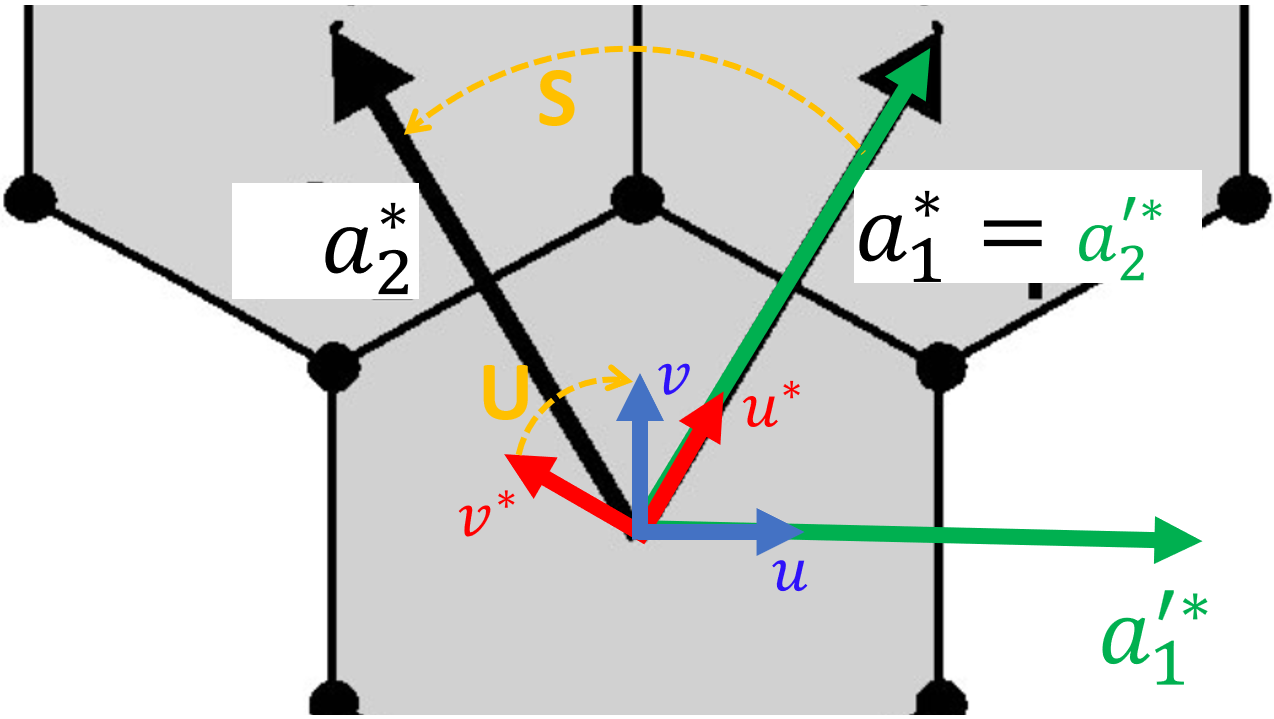
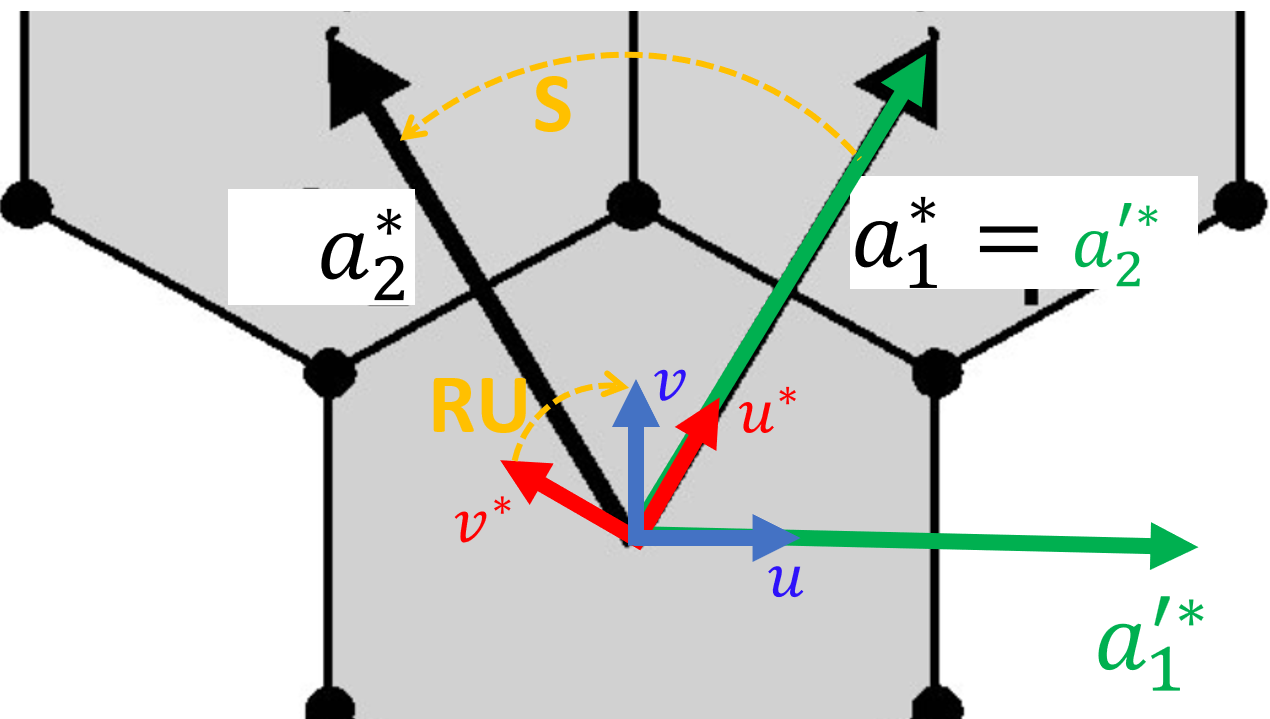
Chenge the preferred orientation

diff --git a/Framework/PythonInterface/test/python/plugins/algorithms/ReorientUnitCellTest.py b/Framework/PythonInterface/test/python/plugins/algorithms/ReorientUnitCellTest.py
@@ -21,6 +21,8 @@ from mantid.simpleapi import (
 
 
 class ReorientUnitCellTest(unittest.TestCase):
+    R = np.array([[0, 1, 0], [0, 0, 1], [1, 0, 0]])
+
     def setUp(self):
         """Set up test fixtures."""
         # Create a simple peaks workspace for testing
@@ -45,6 +47,12 @@ class ReorientUnitCellTest(unittest.TestCase):
         cos_theta = (trace - 1) / 2.0
         return round(np.degrees(np.arccos(cos_theta)))
 
+    def rotation_angle_of_RU(self):
+        oriented_lattice = mtd[self.peaks_ws_name].sample().getOrientedLattice()
+        trace = (self.R @ oriented_lattice.getU()).diagonal().sum()
+        cos_theta = (trace - 1) / 2.0
+        return round(np.degrees(np.arccos(cos_theta)))
+
     def test_missing_ub_matrix(self):
         """Test that algorithm fails if workspace has no UB matrix."""
         # Create a workspace without UB
@@ -60,15 +68,6 @@ class ReorientUnitCellTest(unittest.TestCase):
         finally:
             DeleteWorkspace(test_ws)
 
-    def test_invalid_lattice_system(self):
-        """Test that specifying LatticeSystem for non-Trigonal fails validation."""
-        alg = self.setup_algorithm()
-        alg.setProperty("PeaksWorkspace", self.peaks_ws_name)
-        alg.setProperty("CrystalSystem", "Cubic")
-        alg.setProperty("LatticeSystem", "Hexagonal")
-        issues = alg.validateInputs()
-        self.assertIn("LatticeSystem", issues)
-
     def test_cubic_crystal_system(self):
         """Test reorientation with cubic crystal system."""
         # U represents a 120 degree rotation around the cube's diagonal <111>
@@ -78,18 +77,18 @@ class ReorientUnitCellTest(unittest.TestCase):
         SetUB(Workspace=self.peaks_ws_name, a=2.0, b=2.0, c=2.0, alpha=90, beta=90, gamma=90, u=[0, 1, 0], v=[0, 0, 1])
         self.assertEqual(self.rotation_angle_of_U(), 120)
         ReorientUnitCell(PeaksWorkspace=self.peaks_ws_name, CrystalSystem="Cubic", Tolerance=0.12)
-        self.assertEqual(self.rotation_angle_of_U(), 0)  # U becomes the identity matrix
+        self.assertEqual(self.rotation_angle_of_RU(), 0)  # RU becomes the identity matrix
 
     def test_tetragonal_crystal_system(self):
         """Test reorientation with tetragonal crystal system."""
-        # U represents a 90 degree rotation around z-axis
-        U = np.array([[0, -1, 0], [1, 0, 0], [0, 0, 1]], dtype=float)
+        # U represents a 90 degree rotation around Y-axis
+        U = np.array([[0, 0, 1], [0, 1, 0], [-1, 0, 0]], dtype=float)
         # a=5.0, b=5.0, c=6.0, alpha=90, beta=90, gamma=90
         ol = OrientedLattice(5.0, 5.0, 6.0, 90, 90, 90)
         SetUB(Workspace=self.peaks_ws_name, UB=(U @ ol.getB()).flatten().tolist())
-        self.assertEqual(self.rotation_angle_of_U(), 90)
+        # self.assertEqual(self.rotation_angle_of_U(), 90)
         ReorientUnitCell(PeaksWorkspace=self.peaks_ws_name, CrystalSystem="Tetragonal", Tolerance=0.12)
-        self.assertEqual(self.rotation_angle_of_U(), 0)
+        self.assertEqual(self.rotation_angle_of_RU(), 0)
 
     def test_trigonal_rhombohedral(self):
         """Test reorientation with trigonal rhombohedral lattice."""
@@ -101,42 +100,42 @@ class ReorientUnitCellTest(unittest.TestCase):
         self.assertEqual(self.rotation_angle_of_U(), 120)
         # Run the algorithm
         ReorientUnitCell(PeaksWorkspace=self.peaks_ws_name, CrystalSystem="Trigonal", LatticeSystem="Rhombohedral", Tolerance=0.12)
-        # deformation from the cube (89 degrees vs 90) means we can't get the identity matrix for U
+        # deformation from the cube (89 degrees vs 90) means we can't get the identity matrix for RU
         # but we should get a small residual rotation ~ 1 degree
-        self.assertLess(self.rotation_angle_of_U(), 4)
+        self.assertLess(self.rotation_angle_of_RU(), 4)
 
     def test_trigonal_hexagonal(self):
         """Test reorientation with trigonal hexagonal lattice."""
-        # 120-degree rotation around c-axis
-        U = np.array([[-0.5, -np.sqrt(3.0) / 2, 0.0], [np.sqrt(3.0) / 2, -0.5, 0.0], [0.0, 0.0, 1.0]])
+        # 120-degree rotation around axis <1 -1 1>
+        U = np.array([[0, 0, 1], [-1, 0, 0], [0, -1, 0]], dtype=float)
         # a=4.0, b=4.0, c=6.0, alpha=90, beta=90, gamma=120
         ol = OrientedLattice(4.0, 4.0, 6.0, 90, 90, 120)
         SetUB(Workspace=self.peaks_ws_name, UB=(U @ ol.getB()).flatten().tolist())
         self.assertEqual(self.rotation_angle_of_U(), 120)
         ReorientUnitCell(PeaksWorkspace=self.peaks_ws_name, CrystalSystem="Trigonal", LatticeSystem="Hexagonal", Tolerance=0.12)
-        self.assertEqual(self.rotation_angle_of_U(), 0)
+        self.assertEqual(self.rotation_angle_of_RU(), 60)
 
     def test_orthorhombic_crystal_system(self):
         """Test reorientation with orthorhombic crystal system."""
-        # U represents a 180 degree rotation around x-axis
-        U = np.array([[1, 0, 0], [0, -1, 0], [0, 0, -1]], dtype=float)
+        # U represents a 120 degree rotation around diagonal <1 1 −1>
+        U = np.array([[0, 0, -1], [1, 0, 0], [0, -1, 0]], dtype=float)
         # a=4.0, b=5.0, c=6.0, alpha=90, beta=90, gamma=90
         ol = OrientedLattice(4.0, 5.0, 6.0, 90, 90, 90)
         SetUB(Workspace=self.peaks_ws_name, UB=(U @ ol.getB()).flatten().tolist())
-        self.assertEqual(self.rotation_angle_of_U(), 180)
+        self.assertEqual(self.rotation_angle_of_U(), 120)
         ReorientUnitCell(PeaksWorkspace=self.peaks_ws_name, CrystalSystem="Orthorhombic", Tolerance=0.12)
-        self.assertEqual(self.rotation_angle_of_U(), 0)
+        self.assertEqual(self.rotation_angle_of_RU(), 0)
 
     def test_monoclinic_crystal_system(self):
         """Test reorientation with monoclinic crystal system."""
-        # U represents a 180 degree rotation around y-axis
-        U = np.array([[-1, 0, 0], [0, 1, 0], [0, 0, -1]], dtype=float)
+        # U represents a 120 degree rotation around axis <1 -1 -1>
+        U = np.array([[0, 0, -1], [-1, 0, 0], [0, 1, 0]], dtype=float)
         # a=4.0, b=5.0, c=6.0, alpha=90, beta=110, gamma=90
         ol = OrientedLattice(4.0, 5.0, 6.0, 90, 110, 90)
         SetUB(Workspace=self.peaks_ws_name, UB=(U @ ol.getB()).flatten().tolist())
-        self.assertEqual(self.rotation_angle_of_U(), 180)
+        self.assertEqual(self.rotation_angle_of_U(), 120)
         ReorientUnitCell(PeaksWorkspace=self.peaks_ws_name, CrystalSystem="Monoclinic", Tolerance=0.12)
-        self.assertEqual(self.rotation_angle_of_U(), 0)
+        self.assertEqual(self.rotation_angle_of_RU(), 0)
 
 
 if __name__ == "__main__":

diff --git a/Testing/SystemTests/tests/framework/ReorientUnitCellTest.py b/Testing/SystemTests/tests/framework/ReorientUnitCellTest.py
@@ -2,7 +2,7 @@ import systemtesting
 
 import numpy as np
 
-from mantid.simpleapi import AnalysisDataService, FindUBUsingIndexedPeaks, IndexPeaks, LoadIsawPeaks, mtd, ReorientUnitCell
+from mantid.simpleapi import AnalysisDataService, FindUBUsingIndexedPeaks, IndexPeaks, LoadIsawPeaks, mtd, ReorientUnitCell, SetUB
 
 
 class SingleCrystalPeaksIntHKLIntMNPSaveLoadTest(systemtesting.MantidSystemTest):
@@ -12,9 +12,11 @@ class SingleCrystalPeaksIntHKLIntMNPSaveLoadTest(systemtesting.MantidSystemTest)
     def requiredFiles(self):
         return ["RFMBA2PbI4_Monoclinic_P_5sig.integrate"]
 
-    def rotation_angle_of_U(self, workspace):
-        oriented_lattice = mtd[str(workspace)].sample().getOrientedLattice()
-        trace = oriented_lattice.getU().diagonal().sum()
+    @staticmethod
+    def rotation_angle_of_RU(workspace_name: str):
+        R = np.array([[0, 1, 0], [0, 0, 1], [1, 0, 0]])
+        oriented_lattice = mtd[workspace_name].sample().getOrientedLattice()
+        trace = (R @ oriented_lattice.getU()).diagonal().sum()
         cos_theta = (trace - 1) / 2.0
         return round(np.degrees(np.arccos(cos_theta)))
 
@@ -23,10 +25,11 @@ class SingleCrystalPeaksIntHKLIntMNPSaveLoadTest(systemtesting.MantidSystemTest)
         workspace_name = mtd.unique_hidden_name()
         LoadIsawPeaks(Filename="RFMBA2PbI4_Monoclinic_P_5sig.integrate", OutputWorkspace=workspace_name)
         FindUBUsingIndexedPeaks(PeaksWorkspace=workspace_name)
+        ol = mtd[workspace_name].sample().getOrientedLattice()
+        # U represents a 120 degree rotation around axis <1 -1 -1>
+        U = np.array([[0, 0, -1], [-1, 0, 0], [0, 1, 0]], dtype=float)
+        SetUB(Workspace=workspace_name, UB=(U @ ol.getB()).flatten().tolist())
         IndexPeaks(PeaksWorkspace=workspace_name, CommonUBForAll=True)
-        theta_before = self.rotation_angle_of_U(workspace_name)
-
+        self.assertEqual(self.rotation_angle_of_RU(workspace_name), 180)
         ReorientUnitCell(PeaksWorkspace=workspace_name, CrystalSystem="Monoclinic")
-        IndexPeaks(PeaksWorkspace=workspace_name, CommonUBForAll=True)
-        theta_after = self.rotation_angle_of_U(workspace_name)
-        self.assertLessThan(theta_after, theta_before, msg="ReorientUnitCell didn't align the crystal")
+        self.assertEqual(self.rotation_angle_of_RU(workspace_name), 0)

diff --git a/Framework/PythonInterface/plugins/algorithms/ReorientUnitCell.py b/Framework/PythonInterface/plugins/algorithms/ReorientUnitCell.py
@@ -15,7 +15,7 @@ from mantid.simpleapi import mtd, TransformHKL
 class ReorientUnitCell(PythonAlgorithm):
     """
     Reorients a unit cell based on crystal symmetry by finding the transformation
-    that maximizes trace(U @ B @ inv(M)) across all symmetry operations M.
+    that maximizes trace (R @ U @ B @ inv(M)) across all symmetry operations M.
     """
 
     @staticmethod
@@ -182,14 +182,20 @@ class ReorientUnitCell(PythonAlgorithm):
                 name = "{}: ".format(sym_op.getOrder()) + sym_op.getIdentifier()
                 transforms[name] = transform
 
-        # Step 5: Find the symmetry operation that maximizes trace(U @ B @ inv(M)) = trace(U' @ B)
+        # Step 5: Find the symmetry operation that maximizes trace(R @ U @ B @ inv(M)) = trace(U' @ B)
+        # Matrix Reorient goniometer axes such that (R @ U) rotates the orthonormal reciprocal (a*, b*, c*) such that:
+        # a* points along the beam direction (0, 0, 1)
+        # b* points along the horizontal direction (1, 0, 0)
+        # c* points along the vertical direction (0, 1, 0)
+        # R equivalent to a 120-degree rotation around diagonal <111>
+        R = np.array([[0, 1, 0], [0, 0, 1], [1, 0, 0]])
         max_trace = -np.inf
         optimal_transform = None
         transform_name = None
         for name, transform in transforms.items():
             try:
                 transform_inv = np.linalg.inv(transform)
-                trace = np.trace(U @ B @ transform_inv)
+                trace = np.trace(R @ U @ B @ transform_inv)
                 if trace > max_trace:
                     max_trace = trace
                     optimal_transform = transform

diff --git a/docs/source/algorithms/ReorientUnitCell-v1.rst b/docs/source/algorithms/ReorientUnitCell-v1.rst
@@ -9,28 +9,35 @@
 Description
 -----------
 
-ReorientUnitCell finds the unit cell most aligned with the goniometer axes by finding rotation :math:`U`
-most similar to the identity matrix. The similarity is quantified by the angle of rotation :math:`\theta`,
+ReorientUnitCell finds the unit cell most aligned with the goniometer axes by finding rotation :math:`R \cdot U`
+most similar to the identity matrix. Rotation :math:`R \cdot U` transforms the reciprocal orthonormal
+vectors :math:`u^{*}, v^{*}, w^{*}` such that:
+
+- :math:`u^{*}` aligns with the beam ( :math:`Z` axis)
+- :math:`v^{*}` aligns with the horizontal ( :math:`X` axis)
+- :math:`w^{*}` aligns with the vertical ( :math:`Y` axis)
+
+The similarity to the identity matrix is quantified by the angle of rotation :math:`\theta`,
 which can be calculated from the trace of the rotation matrix:
 
 .. math::
 
-   Tr(U) = 1 + 2\cos{\theta} \\
-   Tr(UB) \leq Tr(U) Tr(B)
+   Tr(R \cdot U) = 1 + 2\cos{\theta} \\
+   Tr(R \cdot U \cdot B) \leq Tr(R \cdot U) Tr(B)
 
-Minimizing :math:`\theta` is therefore equivalent to maximizing :math:`Tr(UB)`. Here, :math:`B` is the
-matrix transforming the lattice vectors to the reciprocal orthonormal frame of reference.
+Minimizing :math:`\theta` is therefore equivalent to maximizing :math:`Tr(R \cdot U \cdot B)`.
+Here, :math:`B` is the matrix transforming the lattice vectors to the reciprocal orthonormal frame of reference.
 
-Starting from an initial guess for the orientation matrix :math:`UB`, the algorithm applies all
-possible symmetry operations :math:`S` of the crystal's point group to find matrix :math:`U'`
-most similar to the identity matrix, where
+Starting from an initial guess for the orientation matrix :math:`R \cdot U \cdot B`
+the algorithm applies all possible symmetry operations :math:`S` of the crystal's point group
+to find matrix :math:`R \cdot U'` most similar to the identity matrix, where
 
 .. math::
 
-   U'B = UBS \\
-   Tr(U'B) = Tr(UBS) \leq Tr(B) Tr(SU)
+   U' \cdot B = U \cdot B \cdot S \\
+   Tr(R \cdot U' \cdot B) = Tr(R \cdot U \cdot B\cdot S) \leq Tr(B) Tr(S \cdot R \cdot U)
 
-Thus, :math:`S` is the symmetry operation most similar to the inverse of :math:`U`.
+Thus, :math:`S` is the symmetry operation most similar to the inverse of :math:`R \cdot U`.
 
 .. figure:: ../images/ReorientUnitCell_fig1.png
    :class: screenshot
@@ -39,10 +46,10 @@ Thus, :math:`S` is the symmetry operation most similar to the inverse of :math:`
 
 In the image, lattice vectors :math:`\{a_1^*, a_2^*\}` transform to reciprocal orthonormal vectors
 :math:`\{u^*, v^*\}` by matrix :math:`B`, then transform to goniometer axes :math:`\{u, v\}`
-by rotation matrix :math:`U`.
+by rotation matrix :math:`R \cdot U`.
 For equivalent lattice vectors :math:`\{{a'}_{1}^{*}, {a'}_{2}^{*}\}`,
-matrix :math:`B` directly transforms to goniometer axes, thus :math:`U'` is the identity matrix.
-Notice that matrix :math:`S \equiv U^{-1}` transforms :math:`\{{a'}_{1}^{*}, {a'}_{2}^{*}\}`
+matrix :math:`B` directly transforms to goniometer axes, thus :math:`R \cdot U'` is the identity matrix.
+Notice that matrix :math:`S \equiv (R \cdot U)^{-1}` transforms :math:`\{{a'}_{1}^{*}, {a'}_{2}^{*}\}`
 to :math:`\{a_1^*, a_2^*\}`.
 
 The triclinic crystal system has no symmetry operations other than the identity, so no reorientation is possible.
@@ -60,27 +67,33 @@ Usage
     import numpy as np
 
     def rotation_angle(workspace):
+        R = np.array(
+            [[0,1,0],
+             [0,0,1],
+             [1,0,0]])
         oriented_lattice = mtd[str(workspace)].sample().getOrientedLattice()
-        trace = oriented_lattice.getU().diagonal().sum()
-        cos_theta = (trace - 1) / 2.
-        return int(np.degrees(np.arccos(cos_theta)))
+        trace = (R @ oriented_lattice.getU()).diagonal().sum()
+        cos_theta = (trace - 1) / 2.0
+        return round(np.degrees(np.arccos(cos_theta)))
 
     filename = 'RFMBA2PbI4_Monoclinic_P_5sig.integrate'
     LoadIsawPeaks(Filename=filename, OutputWorkspace='peaks')
     FindUBUsingIndexedPeaks(PeaksWorkspace='peaks')
+    ol = mtd['peaks'].sample().getOrientedLattice()
+    # U represents a 120 degree rotation around axis <1 -1 -1>
+    U = np.array([[0, 0, -1], [-1, 0, 0], [0, 1, 0]], dtype=float)
+    SetUB(Workspace='peaks', UB=(U @ ol.getB()).flatten().tolist())
     IndexPeaks(PeaksWorkspace='peaks', CommonUBForAll=True)
     print(f"(before) rotation angle {rotation_angle('peaks')}")
-
     ReorientUnitCell(PeaksWorkspace='peaks', CrystalSystem='Monoclinic')
-    IndexPeaks(PeaksWorkspace='peaks', CommonUBForAll=True)
     print(f"(after ) rotation angle {rotation_angle('peaks')}")
 
 Output:
 
 .. testoutput:: ReorientUnitCellExample
 
-    (before) rotation angle 157
-    (after ) rotation angle 132
+    (before) rotation angle 180
+    (after ) rotation angle 0
 
 .. categories::
 
